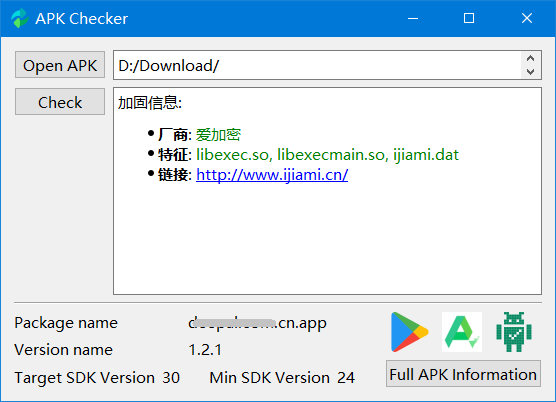
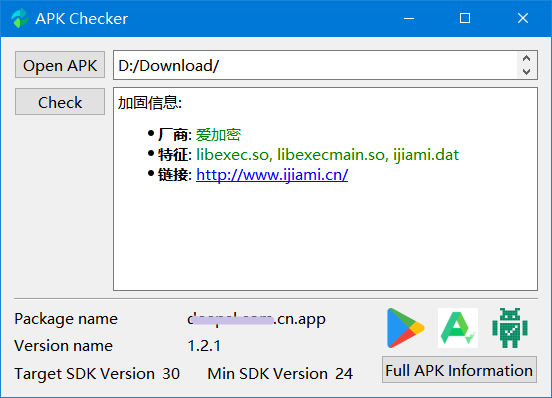
Fix the size of some windows and beautify the UI

diff --git a/ui/pechecker_window.py b/ui/pechecker_window.py
@@ -14,7 +14,7 @@ from PyQt5 import QtCore, QtGui, QtWidgets
 class Ui_PecheckerWindow(object):
     def setupUi(self, PecheckerWindow):
         PecheckerWindow.setObjectName("PecheckerWindow")
-        PecheckerWindow.resize(490, 319)
+        PecheckerWindow.resize(550, 360)
         icon = QtGui.QIcon()
         icon.addPixmap(QtGui.QPixmap("ui/resources/pictures/hacker.png"), QtGui.QIcon.Normal, QtGui.QIcon.Off)
         PecheckerWindow.setWindowIcon(icon)

diff --git a/ui/hash_window.py b/ui/hash_window.py
@@ -14,7 +14,7 @@ from PyQt5 import QtCore, QtGui, QtWidgets
 class Ui_HashWindow(object):
     def setupUi(self, HashWindow):
         HashWindow.setObjectName("HashWindow")
-        HashWindow.resize(490, 319)
+        HashWindow.resize(550, 360)
         icon = QtGui.QIcon()
         icon.addPixmap(QtGui.QPixmap("ui/resources/pictures/hacker.png"), QtGui.QIcon.Normal, QtGui.QIcon.Off)
         HashWindow.setWindowIcon(icon)

diff --git a/ui/appchecker_window.py b/ui/appchecker_window.py
@@ -14,7 +14,7 @@ from PyQt5 import QtCore, QtGui, QtWidgets
 class Ui_AppcheckerWindow(object):
     def setupUi(self, AppcheckerWindow):
         AppcheckerWindow.setObjectName("AppcheckerWindow")
-        AppcheckerWindow.resize(554, 364)
+        AppcheckerWindow.resize(550, 360)
         font = QtGui.QFont()
         font.setFamily("微软雅黑")
         AppcheckerWindow.setFont(font)

diff --git a/README_zh.md b/README_zh.md
@@ -17,17 +17,6 @@ Reverse Wigdet 是一个完全使用 Python 实现的加解密、编解码、哈
 
 ![encrypt_zh](images/encrypt_zh.png)
 
-
-
-### 编解码
-
-- 支持多个哈希算法
-- 不仅包含对普通字符串的哈希计算，也包括对文件的哈希，可快速计算大文件的哈希值
-
-![hash_zh](images/hash_zh.png)
-
-![hash_file_en](images/hash_en.png)
-
 ### 汇编和反汇编
 
 支持多种架构（x86, ARM, mips, Sparc, PowerPC）、字长（16/32/64bit）、大小端
@@ -50,21 +39,28 @@ Reverse Wigdet 是一个完全使用 Python 实现的加解密、编解码、哈
 - ARM64 只有小端模式（当前 AArch64 架构本身只有小端 ）
 - PowerPC32 只有大端模式（当前 PowerPC32 架构本身只有小端）
 
+### 应用加固检测器
+
+Windows PE二进制程序检测
+
+![pe_checker](images/pe_checker_zh.png)
+
+Android应用加固检测
+
+![app_checker](images/app_checker_zh.png)
+
+### 编解码
+
+- 支持多个哈希算法
+- 不仅包含对普通字符串的哈希计算，也包括对文件的哈希，可快速计算大文件的哈希值
+
+![hash_file_en](images/hash_zh.png)
+
 ### 格式化 json/xml 文件
 
 如果我们使用 Burpsuite 社区版抓包，会发现常见的 xml 以及 json 文件并不能很好的展示，因此 ReverseWidget 新增了格式化资源文件的功能，方便我们查看此类文件。
 
 ![disasm_en](images/format.png)
-
-### 应用加固检测器
-
-Windows PE二进制程序检测
-
-![pe_checker](images/pe_checker.png)
-
-Android应用加固检测
-
-![app_checker](images/app_checker.png)
 
 ## 如何使用
 
@@ -73,7 +69,7 @@ Android应用加固检测
 1. 运行 `setup.bat`，安装基本库
 2. 运行程序 `run.bat`
 
-### Linux
+### Linux/macOS
 
 1. 运行 `setup.sh`，安装基本库
 2. 运行程序 `run.sh`
@@ -81,7 +77,5 @@ Android应用加固检测
 当然，如果你想修改源码，新增功能，也可以查看我们的环境搭建指导 → [WIKI](https://github.com/liyansong2018/ReverseWidget/wiki/%E5%BC%80%E5%8F%91%E7%8E%AF%E5%A2%83%E6%90%AD%E5%BB%BA)。 
 
 
-## 开箱即用的发行版
-如果你是幸运的Windows用户，那么可以直接使用我们已经打包好环境的`exe`可执行程序。请在此处下载 [Releases](https://github.com/liyansong2018/ReverseWidget/releases) 可用的 Windows 可执行程序。
-
-这是业余时间编写的一个软件，可能存在一些Bug，正在不断完善中，请谅解。
+## 开箱即用
+如果你是幸运的Windows用户，那么可以直接使用我们已经打包好环境的`exe`可执行程序。请在此处下载 [Releases](https://github.com/liyansong2018/ReverseWidget/releases) 可用的 Windows 可执行程序。这是业余时间编写的一个软件，可能存在一些Bug，正在不断完善中，请谅解。

diff --git a/README.md b/README.md
@@ -21,17 +21,6 @@ Reverse Widget is a lightweight GUI Software that implements some typical  block
 
 ![encrypt_en](images/encrypt_en.png)
 
-
-
-### Encode/Decode
-
-- Support multiple hash algorithms
-- Not only includes the hash calculation of ordinary strings, but also the hash of files, which can quickly calculate the hash value of large files
-
-![hash_en](images/hash_en.png)
-
-
-
 ### Assemble/Disassemble
 
 Support multiple architectures (x86, ARM, mips, Sparc, PowerPC), word length (16/32/64bit), big and little endian
@@ -57,10 +46,12 @@ Limitations
 
 - Powerpc32 only supports big endian (currently powerpc32 architecture only has big endian)
 
-### Beautify json/xml
-Json and xml are our common http resource files, which are not well displayed in Burpsuite Community Edition. We can easily format them in ReverseWidget.
+### Encode/Decode
 
-![disasm_en](images/format.png)
+- Support multiple hash algorithms
+- Not only includes the hash calculation of ordinary strings, but also the hash of files, which can quickly calculate the hash value of large files
+
+![hash_en](images/hash_en.png)
 
 ### Windows/Android APP checker
 
@@ -71,6 +62,12 @@ Check Windows PE file like `PEID`
 Check Android APP shell
 
 ![app_checker](images/app_checker.png)
+
+### Beautify json/xml
+
+Json and xml are our common http resource files, which are not well displayed in Burpsuite Community Edition. We can easily format them in ReverseWidget.
+
+![disasm_en](images/format.png)
 
 ## Compilation & Docs
 
@@ -88,6 +85,6 @@ Of course, you can also see [WIKI](https://github.com/liyansong2018/ReverseWidge
 
 ## Convenient Tool
 
-If you are a lucky dog and Windows user, you can use the out-of-the-box version directly. See [Releases](https://github.com/liyansong2018/ReverseWidget/releases)
+**If you are a lucky dog and Windows user**, you can use the out-of-the-box version directly. See [Releases](https://github.com/liyansong2018/ReverseWidget/releases)
 
 This is a software written in my spare time. There may be some bugs which will be improved. Please understand.
